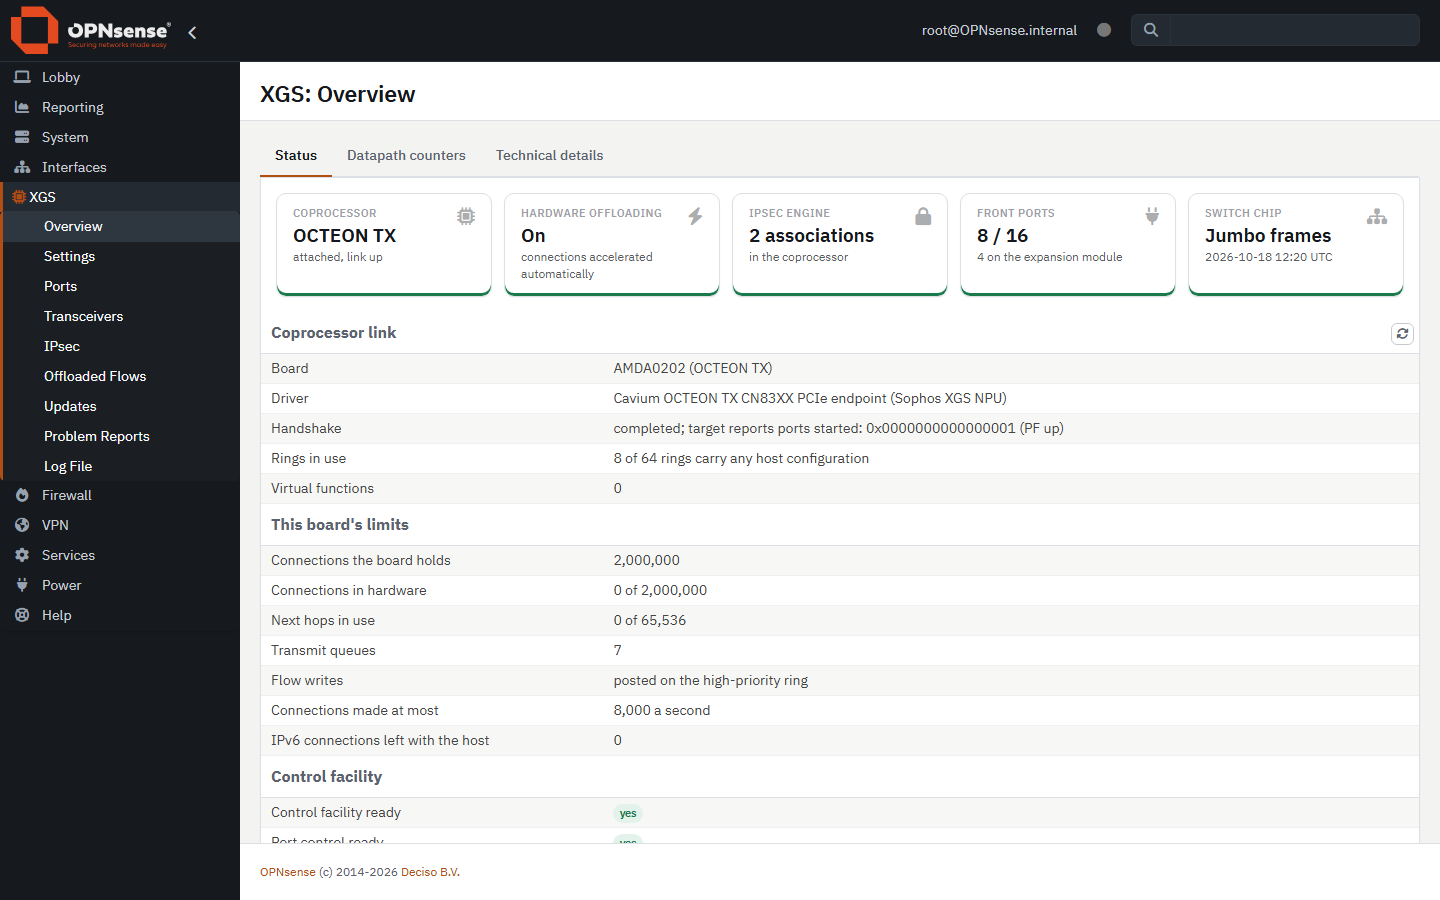
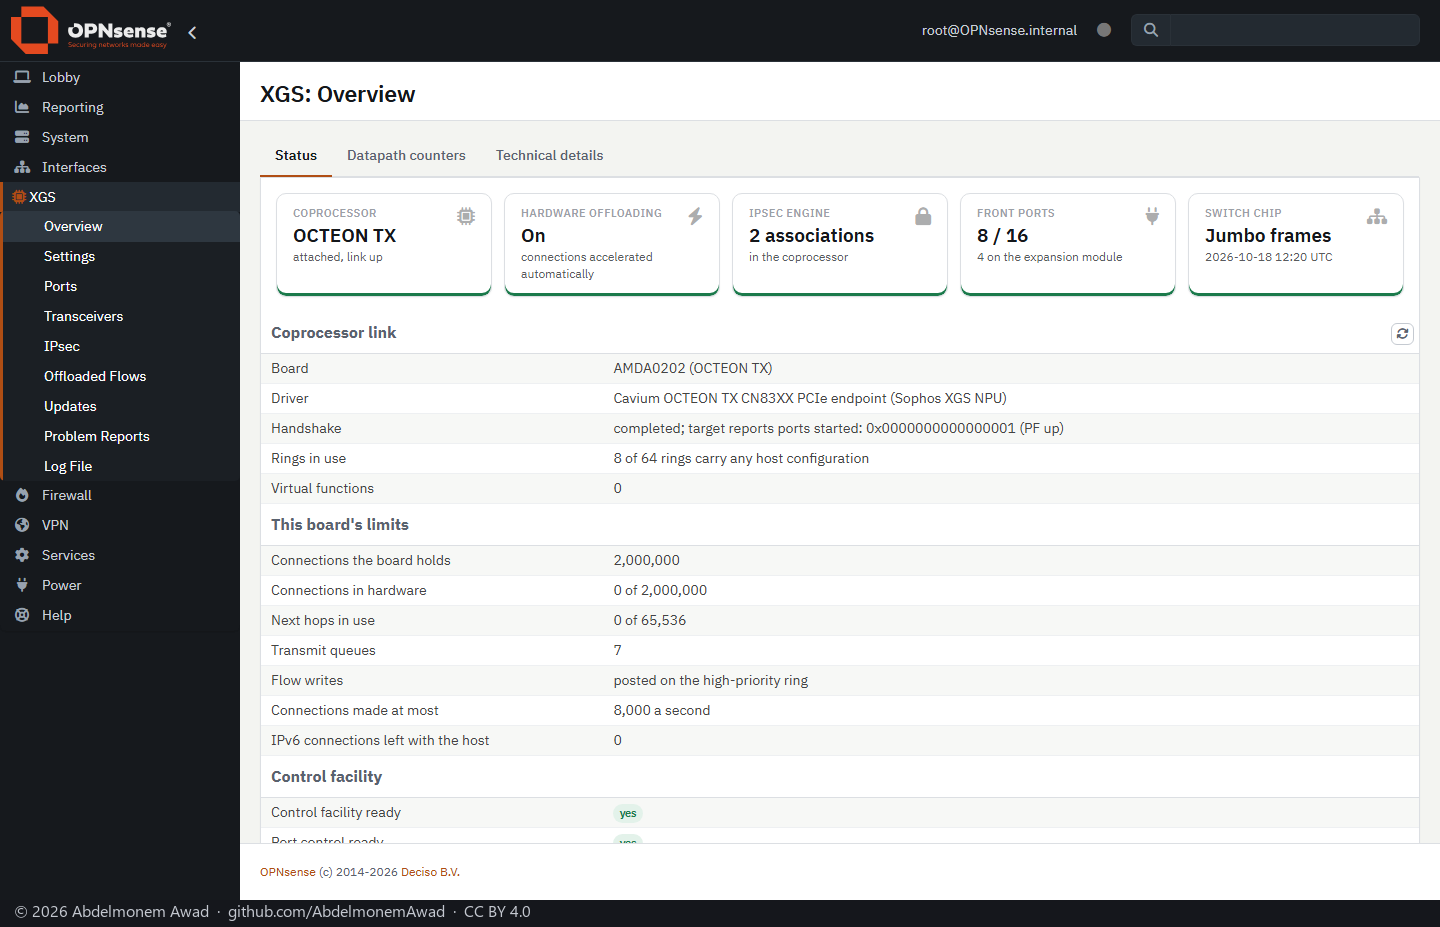
The images carry their owner and licence (CC BY 4.0)

diff --git a/README.md b/README.md
@@ -171,3 +171,5 @@ Not yet: an image built with the theme and booted, and the GUI's pages beyond th
 
 BSD-2-Clause, in [LICENSE](LICENSE). The parts that come from OPNsense keep OPNsense's licence,
 beside each theme directory. IBM Plex is under the SIL Open Font License 1.1, beside the fonts.
+
+The photographs and screenshots under `docs/` are &copy; 2026 Abdelmonem Awad, under [CC BY 4.0](https://creativecommons.org/licenses/by/4.0/): use them freely, naming the author and linking here. Each carries that notice in a strip added below it.
